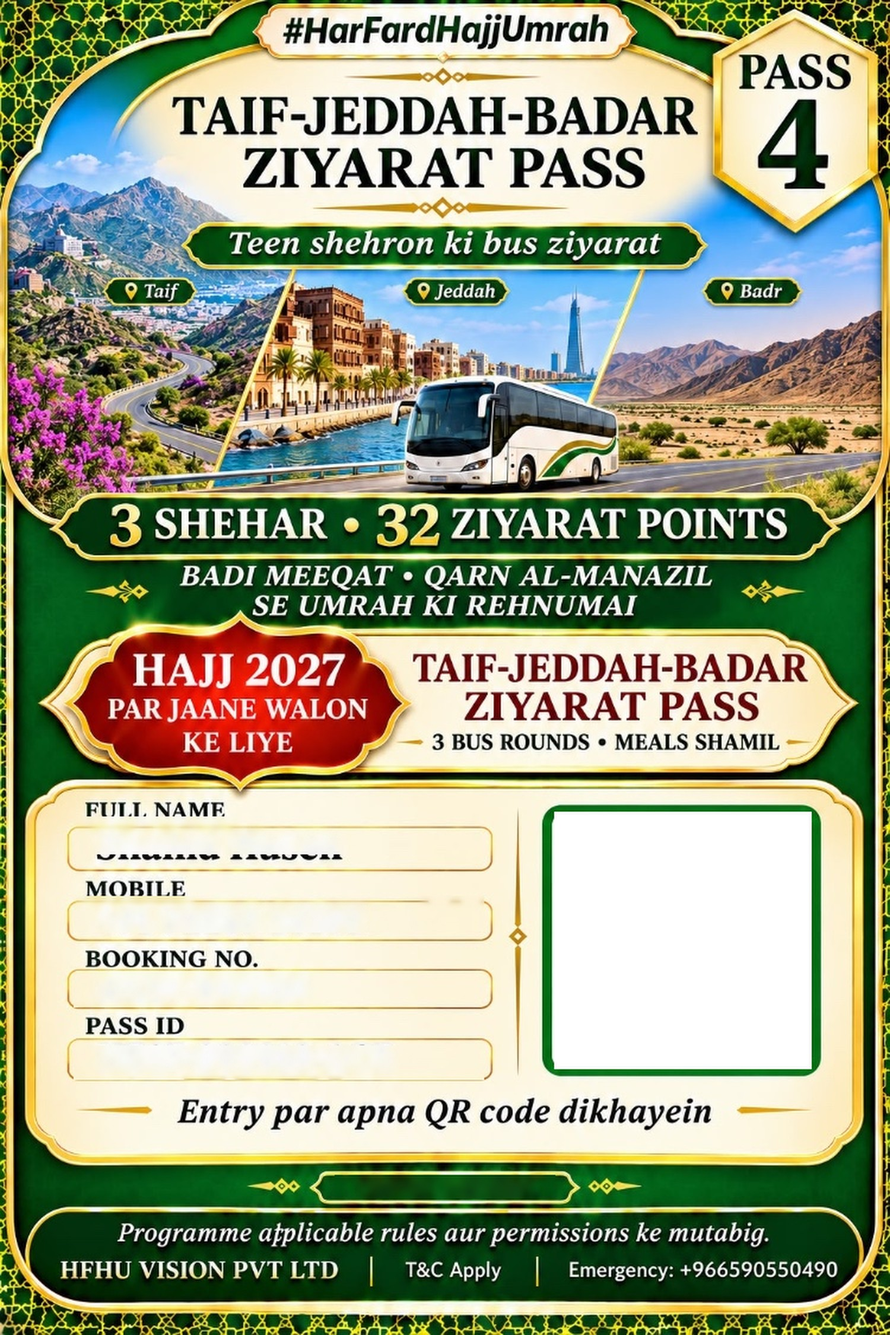
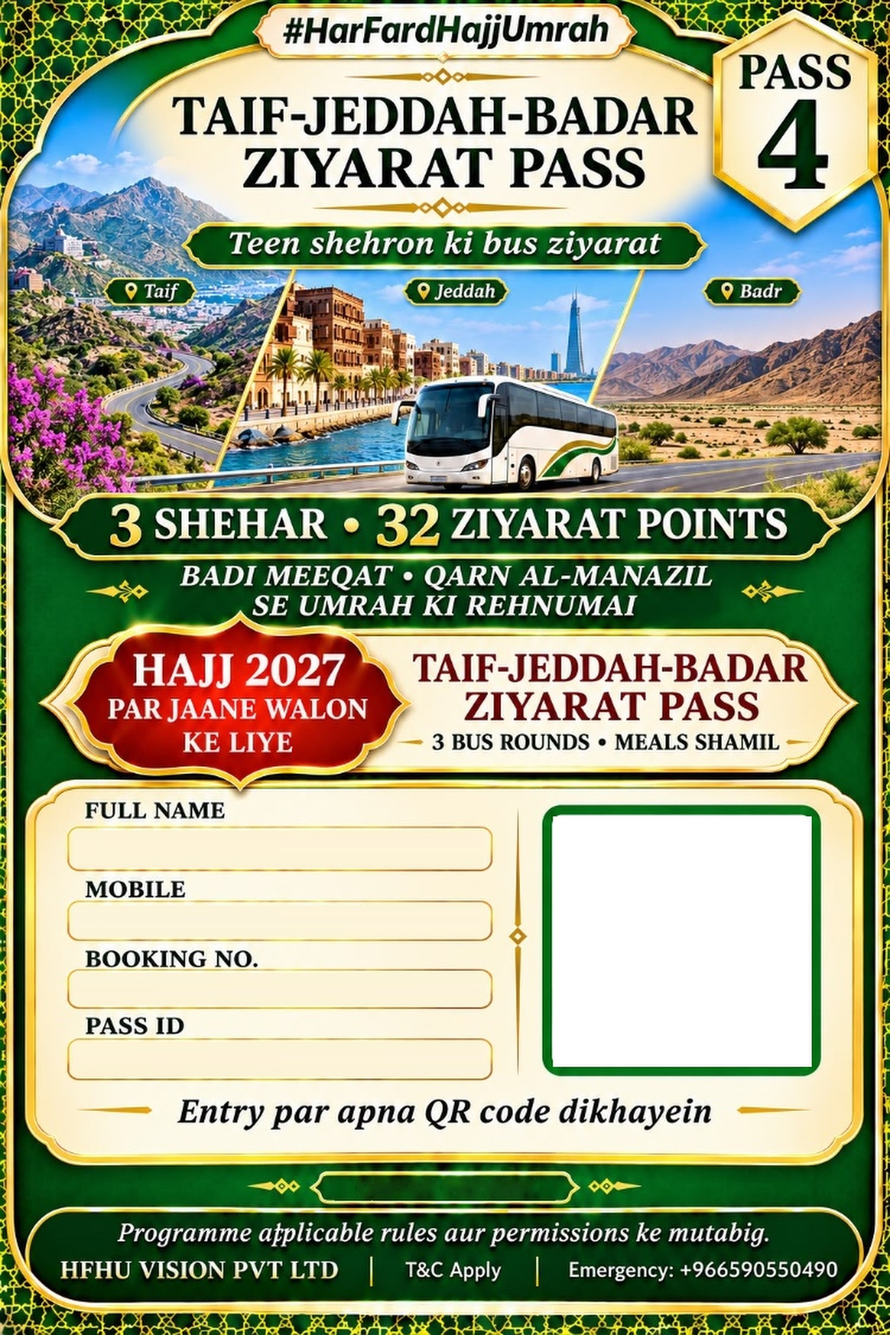
HFHU passes: PASS 4 boxes at their own position; value boxes cleaned to a plain background (no ghost text)
Claude-Session: https://claude.ai/code/session_01S3fsFL82YQH5GogQvGPdCY

diff --git a/backend/src/main/java/in/codebasket/cbwa/common/service/registration/PassRenderer.java b/backend/src/main/java/in/codebasket/cbwa/common/service/registration/PassRenderer.java
@@ -340,8 +340,13 @@ public class PassRenderer {
                     Map.of("name", F_NAME, "mobile", F_MOBILE, "bookingNo", F_BOOKING, "passNo", F_PASS), QR_234, PILL_234),
             "HFHU_3", new HfhuLayout("pass-designs/hfhu-pass-3.jpg",
                     Map.of("name", F_NAME, "mobile", F_MOBILE, "bookingNo", F_BOOKING, "passNo", F_PASS), QR_234, PILL_234),
-            "HFHU_4", new HfhuLayout("pass-designs/hfhu-pass-4.jpg",
-                    Map.of("name", F_NAME, "mobile", F_MOBILE, "bookingNo", F_BOOKING, "passNo", F_PASS), QR_234, PILL_234));
+            // PASS 4 has a two-line subtitle above, so its boxes sit a little lower.
+            "HFHU_4", new HfhuLayout("pass-designs/hfhu-pass-4.jpg", Map.of(
+                    "name", new double[] {0.0827, 0.6222, 0.544, 0.6498},
+                    "mobile", new double[] {0.0827, 0.6782, 0.544, 0.7022},
+                    "bookingNo", new double[] {0.0827, 0.7289, 0.544, 0.7529},
+                    "passNo", new double[] {0.0827, 0.7804, 0.544, 0.8062}),
+                    new double[] {0.6213, 0.6116, 0.9107, 0.7982}, new double[] {0.376, 0.8818, 0.624, 0.8996}));
 
     public static boolean isHfhuStyle(String style) {
         return style != null && HFHU.containsKey(style);
